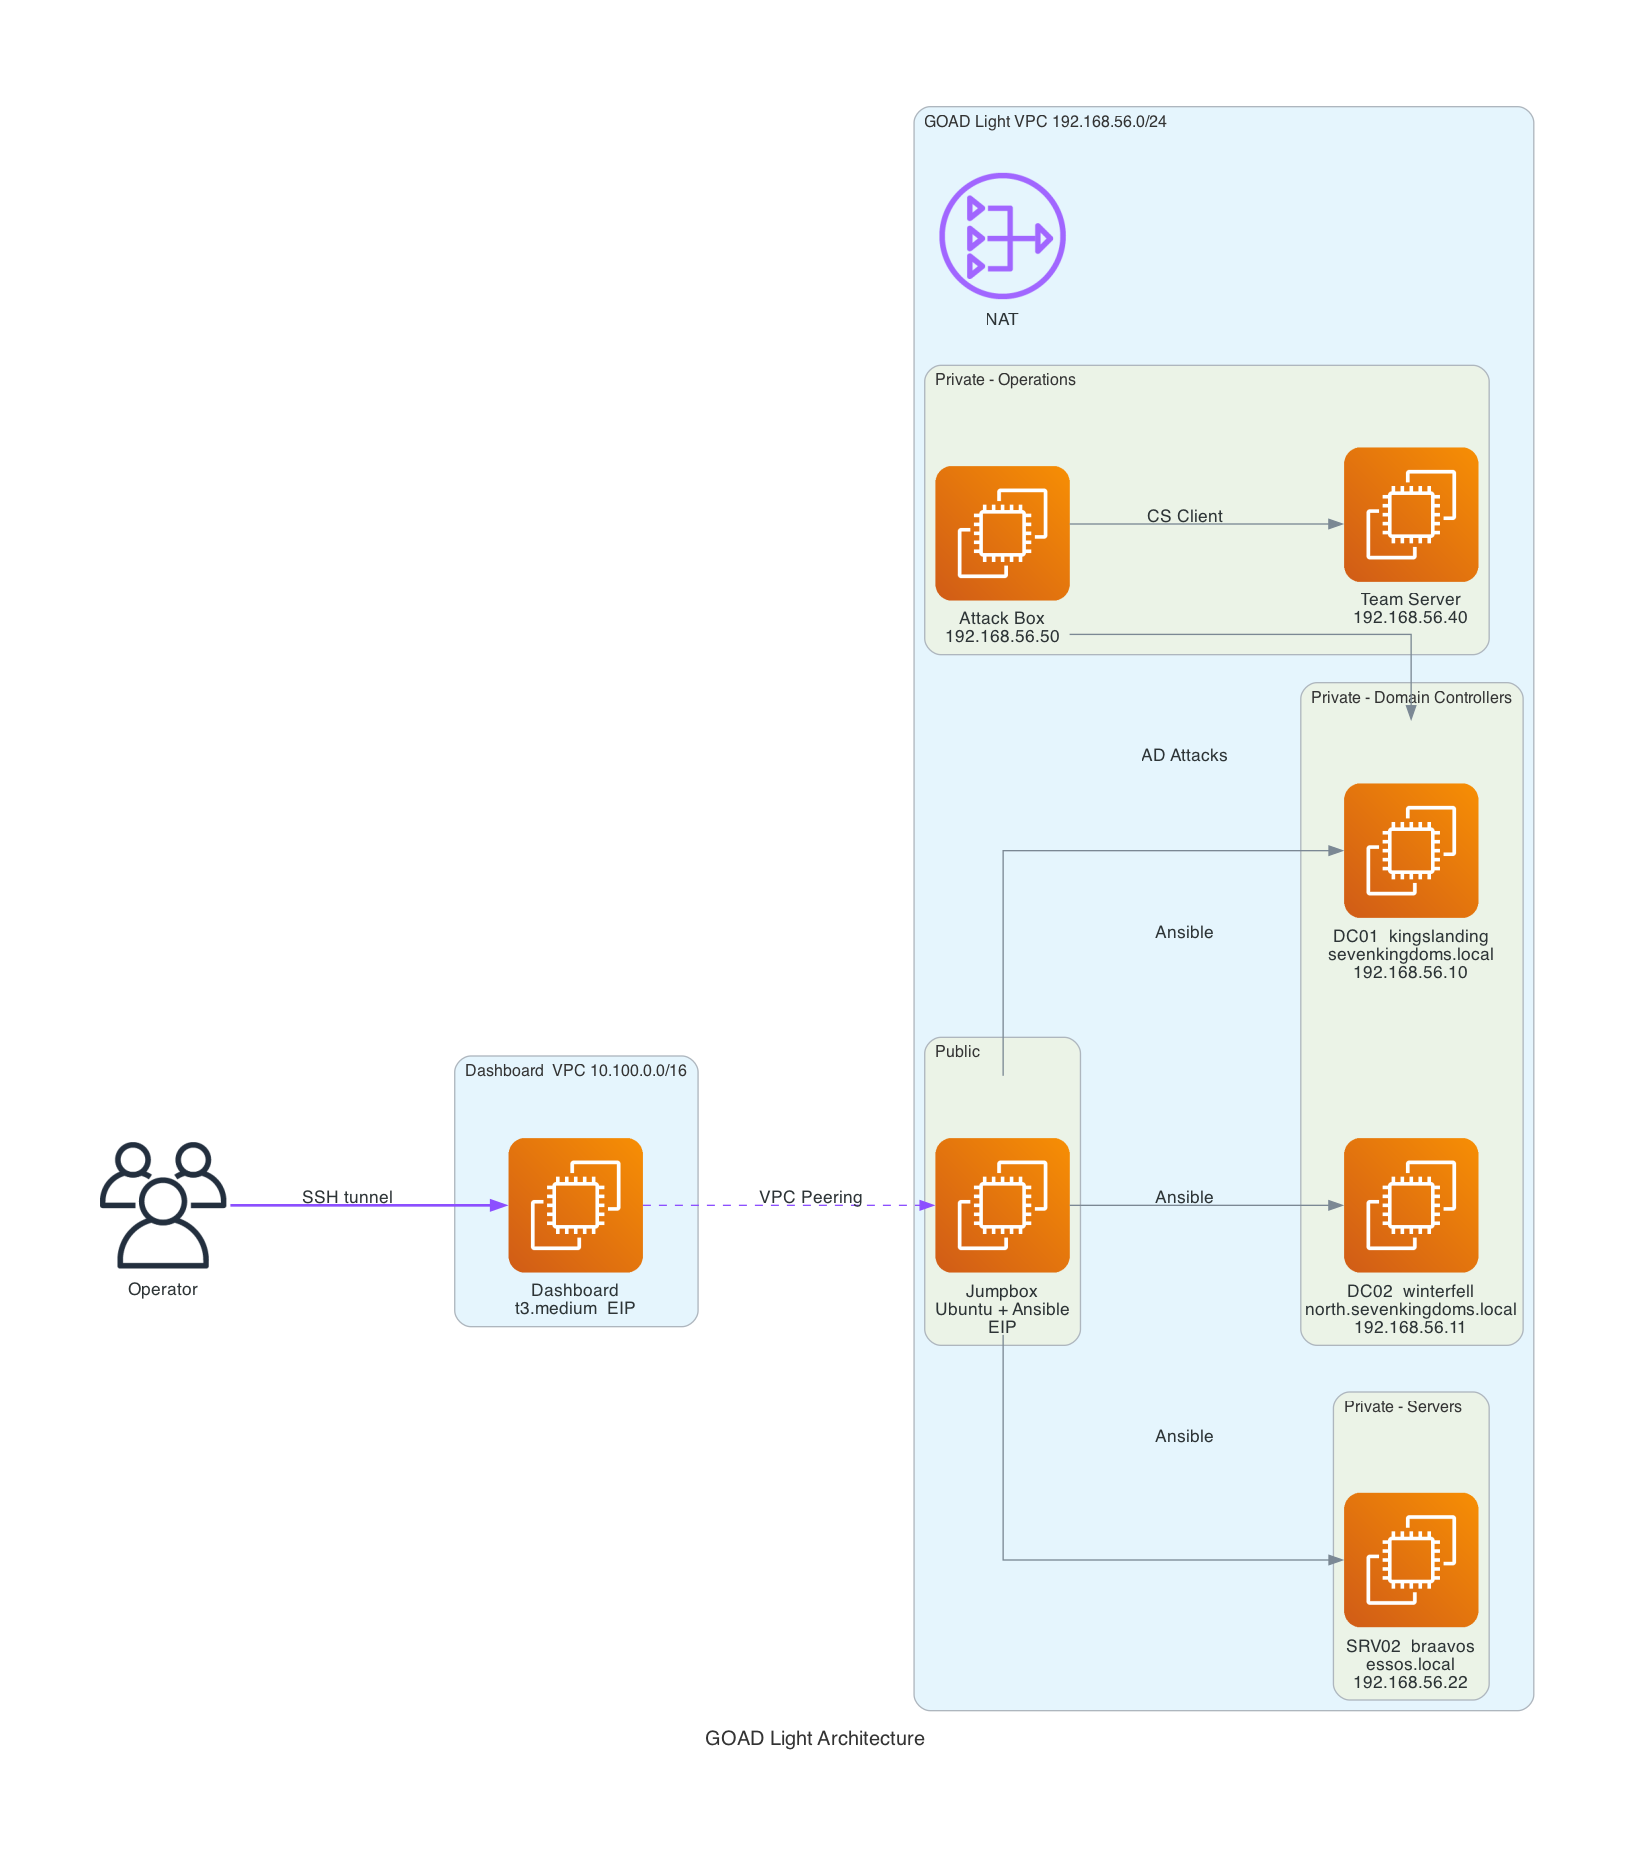
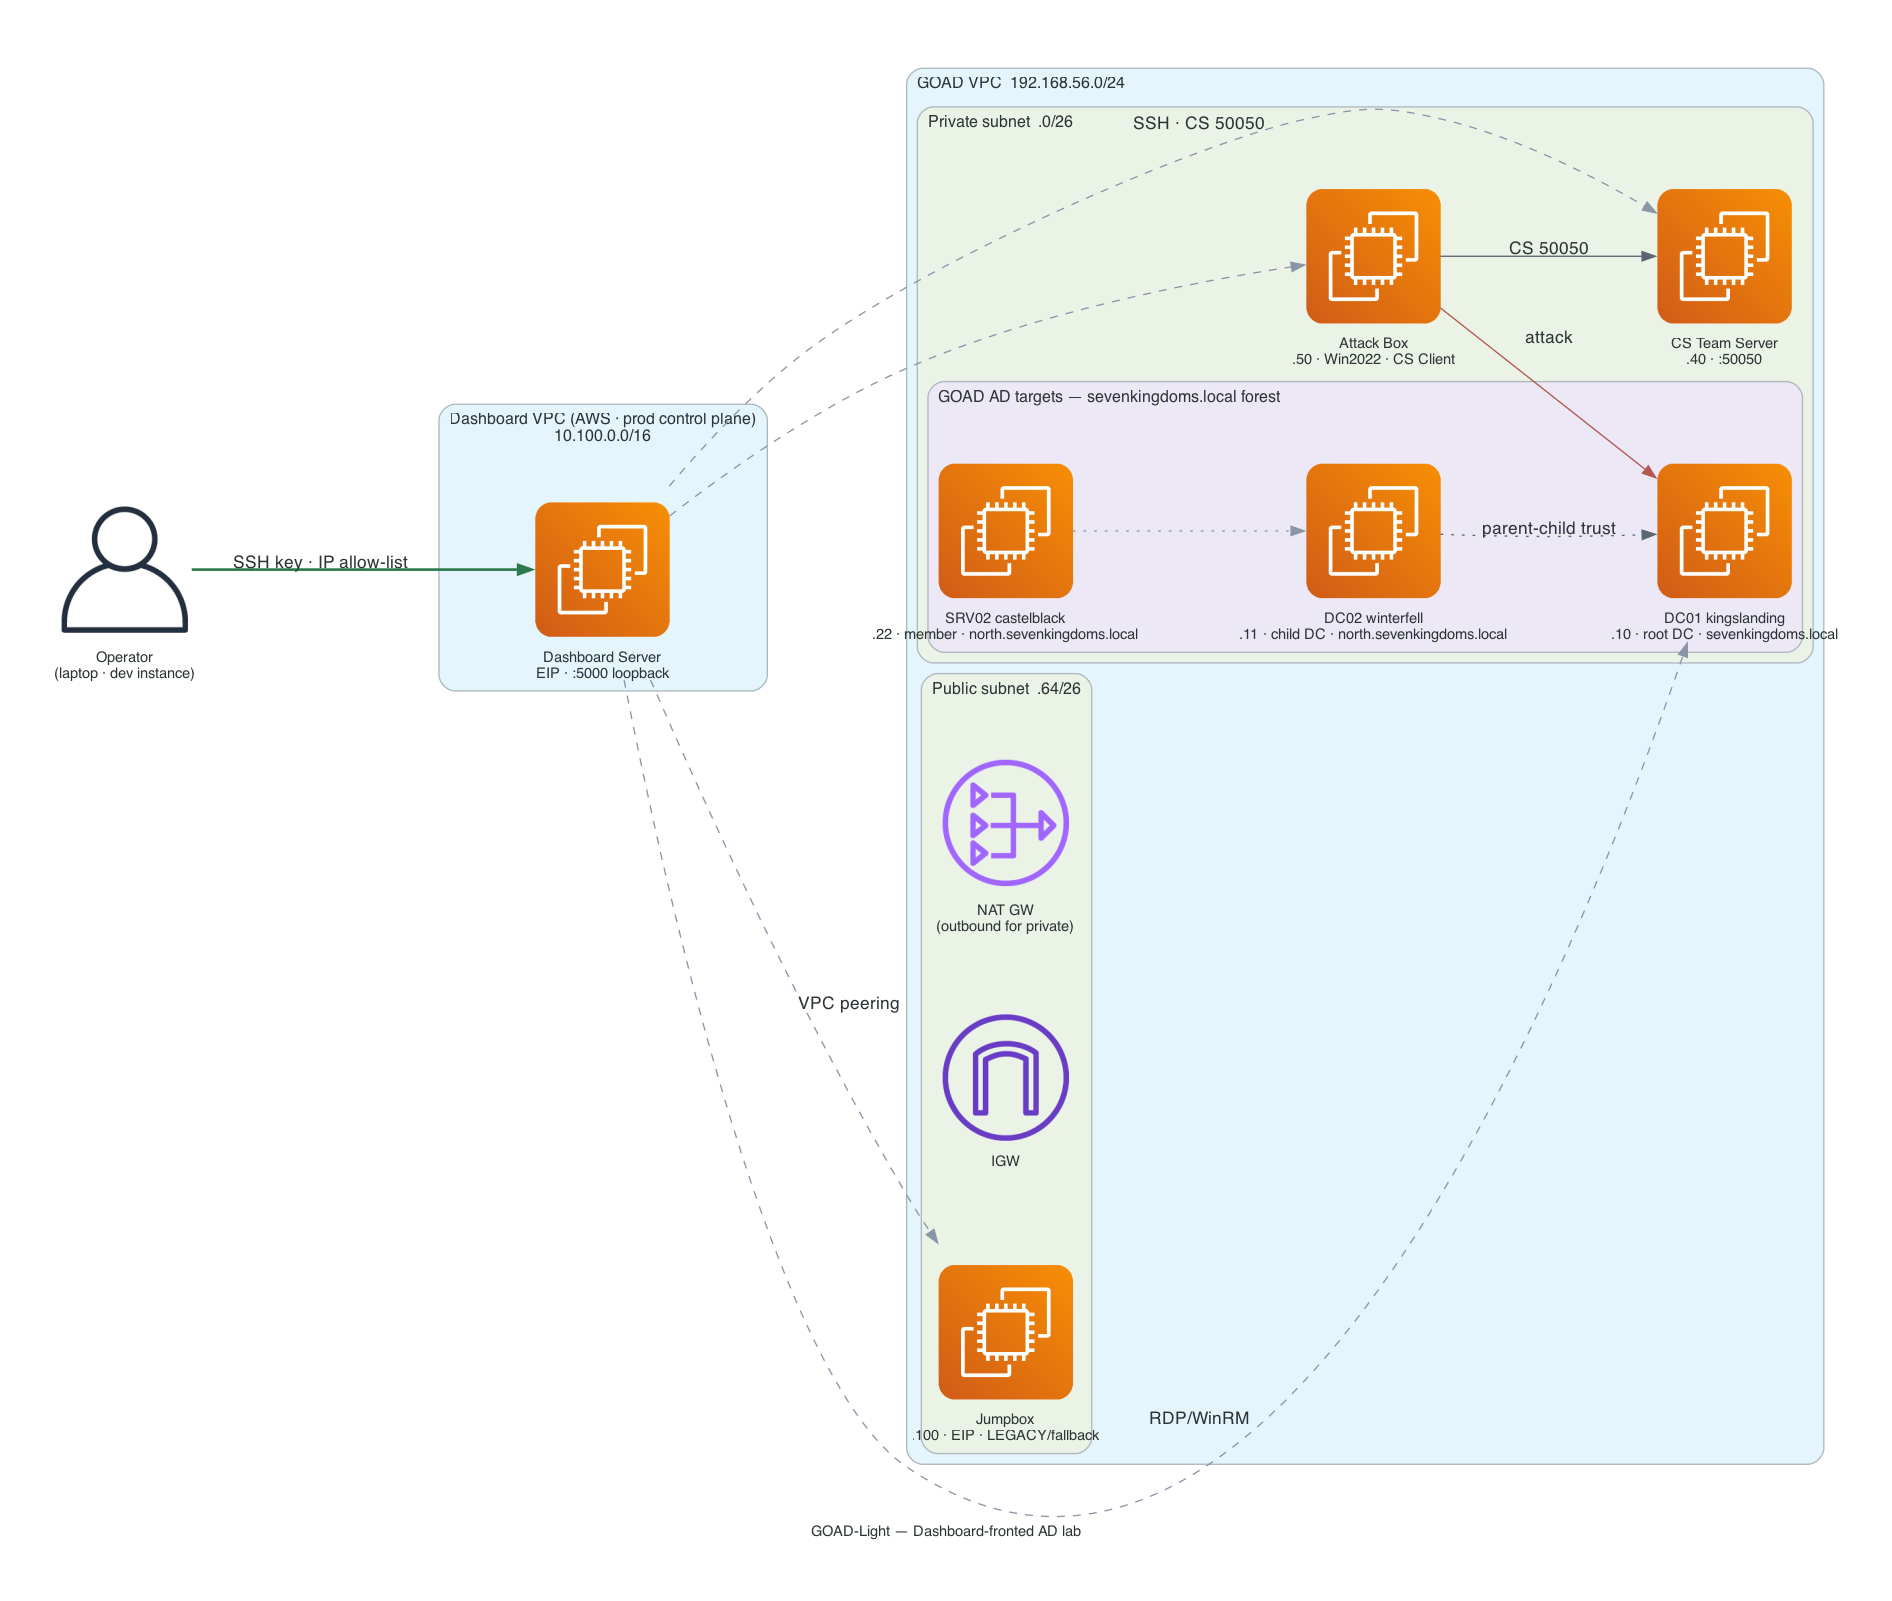
feat(diagrams): regen GOAD-family for AWS-hosted dashboard hub
goad-mini/light/sccm/full/nha redrawn with the AWS-hosted Dashboard
Server as the hub deployments branch from; GOAD jumpbox demoted to
legacy. Landscape, AWS icons, scripted via scripts/diagrams/.

diff --git a/scripts/diagrams/diag_goad_full.py b/scripts/diagrams/diag_goad_full.py
@@ -1,0 +1,48 @@
+"""goad-full — 3 DC + 2 member servers across two forests
+(sevenkingdoms.local + essos.local, with parent-child + forest trusts),
+fronted by the AWS-hosted Dashboard Server. Operator -> Dashboard hub ->
+peered GOAD VPC. The GOAD jumpbox is legacy/fallback; the dashboard is the
+real jump."""
+from diagrams import Cluster, Edge
+from diagrams.aws.compute import EC2
+from diagrams.aws.network import InternetGateway, NATGateway
+
+from _common import rt_diagram, operator, dashboard_hub, OPERATOR_EDGE, PEERING_EDGE
+
+with rt_diagram("GOAD-Full — Dashboard-fronted AD lab", "goad-full-architecture"):
+    op = operator()
+
+    with dashboard_hub() as dash:
+        op >> OPERATOR_EDGE >> dash
+
+    with Cluster("GOAD VPC  192.168.56.0/24"):
+        with Cluster("Public subnet  .64/26"):
+            igw = InternetGateway("IGW")
+            nat = NATGateway("NAT GW\n(outbound for private)")
+            jump = EC2("Jumpbox\n.100 · EIP · LEGACY/fallback")
+
+        with Cluster("Private subnet  .0/26"):
+            ts = EC2("CS Team Server\n.40 · :50050")
+            ab = EC2("Attack Box\n.50 · Win2022 · CS Client")
+            with Cluster("GOAD AD targets — sevenkingdoms.local + essos.local"):
+                dc01 = EC2("DC01 kingslanding\n.10 · root DC · sevenkingdoms.local")
+                dc02 = EC2("DC02 winterfell\n.11 · child DC · north.sevenkingdoms.local")
+                dc03 = EC2("DC03 meereen\n.12 · forest DC · essos.local")
+                srv02 = EC2("SRV02 castelblack\n.22 · member · north.sevenkingdoms.local")
+                srv03 = EC2("SRV03 braavos\n.23 · member · essos.local")
+
+        # Dashboard server is the jump into every GOAD instance (VPC peering).
+        dash >> PEERING_EDGE >> jump
+        dash >> Edge(label="SSH · CS 50050", color="#8a96a8", style="dashed") >> ts
+        dash >> Edge(color="#8a96a8", style="dashed") >> ab
+        dash >> Edge(label="RDP/WinRM", color="#8a96a8", style="dashed") >> dc01
+
+        # Trusts: parent-child within sevenkingdoms, forest trust to essos.
+        dc02 >> Edge(label="parent-child trust", color="#5a6472", style="dotted") >> dc01
+        dc03 >> Edge(label="forest trust", color="#5a6472", style="dotted") >> dc01
+        srv02 >> Edge(color="#8a96a8", style="dotted") >> dc02
+        srv03 >> Edge(color="#8a96a8", style="dotted") >> dc03
+
+        # CS client-to-server + attack path within the lab.
+        ab >> Edge(label="CS 50050", color="#5a6472") >> ts
+        ab >> Edge(label="attack", color="#b4564f") >> dc01

diff --git a/scripts/diagrams/diag_goad_nha.py b/scripts/diagrams/diag_goad_nha.py
@@ -1,0 +1,47 @@
+"""goad-nha — Network Hacking Academy lab: 2 DC + 3 member servers across
+ninja.hack + academy.ninja.lan (parent-child trust), fronted by the
+AWS-hosted Dashboard Server. Operator -> Dashboard hub -> peered GOAD VPC.
+The GOAD jumpbox is legacy/fallback; the dashboard is the real jump."""
+from diagrams import Cluster, Edge
+from diagrams.aws.compute import EC2
+from diagrams.aws.network import InternetGateway, NATGateway
+
+from _common import rt_diagram, operator, dashboard_hub, OPERATOR_EDGE, PEERING_EDGE
+
+with rt_diagram("GOAD-NHA — Dashboard-fronted AD lab", "goad-nha-architecture"):
+    op = operator()
+
+    with dashboard_hub() as dash:
+        op >> OPERATOR_EDGE >> dash
+
+    with Cluster("GOAD VPC  192.168.56.0/24"):
+        with Cluster("Public subnet  .64/26"):
+            igw = InternetGateway("IGW")
+            nat = NATGateway("NAT GW\n(outbound for private)")
+            jump = EC2("Jumpbox\n.100 · EIP · LEGACY/fallback")
+
+        with Cluster("Private subnet  .0/26"):
+            ts = EC2("CS Team Server\n.40 · :50050")
+            ab = EC2("Attack Box\n.50 · Win2022 · CS Client")
+            with Cluster("GOAD AD targets — ninja.hack + academy.ninja.lan"):
+                dc01 = EC2("DC01\n.10 · root DC · ninja.hack")
+                dc02 = EC2("DC02\n.20 · child DC · academy.ninja.lan")
+                srv01 = EC2("SRV01\n.21 · MSSQL · academy.ninja.lan")
+                srv02 = EC2("SRV02\n.22 · web · academy.ninja.lan")
+                srv03 = EC2("SRV03\n.23 · file server · academy.ninja.lan")
+
+        # Dashboard server is the jump into every GOAD instance (VPC peering).
+        dash >> PEERING_EDGE >> jump
+        dash >> Edge(label="SSH · CS 50050", color="#8a96a8", style="dashed") >> ts
+        dash >> Edge(color="#8a96a8", style="dashed") >> ab
+        dash >> Edge(label="RDP/WinRM", color="#8a96a8", style="dashed") >> dc01
+
+        # Parent-child trust + member-server domain membership.
+        dc02 >> Edge(label="parent-child trust", color="#5a6472", style="dotted") >> dc01
+        srv01 >> Edge(color="#8a96a8", style="dotted") >> dc02
+        srv02 >> Edge(color="#8a96a8", style="dotted") >> dc02
+        srv03 >> Edge(color="#8a96a8", style="dotted") >> dc02
+
+        # CS client-to-server + attack path within the lab.
+        ab >> Edge(label="CS 50050", color="#5a6472") >> ts
+        ab >> Edge(label="attack", color="#b4564f") >> dc01

diff --git a/scripts/diagrams/diag_goad_light.py b/scripts/diagrams/diag_goad_light.py
@@ -1,0 +1,43 @@
+"""goad-light — 2 DC + 1 member server, parent-child trust
+(sevenkingdoms.local + north.sevenkingdoms.local), fronted by the
+AWS-hosted Dashboard Server. Operator -> Dashboard hub -> peered GOAD VPC.
+The GOAD jumpbox is legacy/fallback; the dashboard is the real jump."""
+from diagrams import Cluster, Edge
+from diagrams.aws.compute import EC2
+from diagrams.aws.network import InternetGateway, NATGateway
+
+from _common import rt_diagram, operator, dashboard_hub, OPERATOR_EDGE, PEERING_EDGE
+
+with rt_diagram("GOAD-Light — Dashboard-fronted AD lab", "goad-light-architecture"):
+    op = operator()
+
+    with dashboard_hub() as dash:
+        op >> OPERATOR_EDGE >> dash
+
+    with Cluster("GOAD VPC  192.168.56.0/24"):
+        with Cluster("Public subnet  .64/26"):
+            igw = InternetGateway("IGW")
+            nat = NATGateway("NAT GW\n(outbound for private)")
+            jump = EC2("Jumpbox\n.100 · EIP · LEGACY/fallback")
+
+        with Cluster("Private subnet  .0/26"):
+            ts = EC2("CS Team Server\n.40 · :50050")
+            ab = EC2("Attack Box\n.50 · Win2022 · CS Client")
+            with Cluster("GOAD AD targets — sevenkingdoms.local forest"):
+                dc01 = EC2("DC01 kingslanding\n.10 · root DC · sevenkingdoms.local")
+                dc02 = EC2("DC02 winterfell\n.11 · child DC · north.sevenkingdoms.local")
+                srv02 = EC2("SRV02 castelblack\n.22 · member · north.sevenkingdoms.local")
+
+        # Dashboard server is the jump into every GOAD instance (VPC peering).
+        dash >> PEERING_EDGE >> jump
+        dash >> Edge(label="SSH · CS 50050", color="#8a96a8", style="dashed") >> ts
+        dash >> Edge(color="#8a96a8", style="dashed") >> ab
+        dash >> Edge(label="RDP/WinRM", color="#8a96a8", style="dashed") >> dc01
+
+        # Parent-child trust between the two domains.
+        dc02 >> Edge(label="parent-child trust", color="#5a6472", style="dotted") >> dc01
+        srv02 >> Edge(color="#8a96a8", style="dotted") >> dc02
+
+        # CS client-to-server + attack path within the lab.
+        ab >> Edge(label="CS 50050", color="#5a6472") >> ts
+        ab >> Edge(label="attack", color="#b4564f") >> dc01

diff --git a/scripts/diagrams/diag_goad_sccm.py b/scripts/diagrams/diag_goad_sccm.py
@@ -1,0 +1,45 @@
+"""goad-sccm — SCCM attack lab on sccm.lab (DC + SCCM + SQL + client),
+fronted by the AWS-hosted Dashboard Server. Operator -> Dashboard hub ->
+peered GOAD VPC. The GOAD jumpbox is legacy/fallback; the dashboard is the
+real jump."""
+from diagrams import Cluster, Edge
+from diagrams.aws.compute import EC2
+from diagrams.aws.network import InternetGateway, NATGateway
+
+from _common import rt_diagram, operator, dashboard_hub, OPERATOR_EDGE, PEERING_EDGE
+
+with rt_diagram("GOAD-SCCM — Dashboard-fronted AD lab", "goad-sccm-architecture"):
+    op = operator()
+
+    with dashboard_hub() as dash:
+        op >> OPERATOR_EDGE >> dash
+
+    with Cluster("GOAD VPC  192.168.56.0/24"):
+        with Cluster("Public subnet  .64/26"):
+            igw = InternetGateway("IGW")
+            nat = NATGateway("NAT GW\n(outbound for private)")
+            jump = EC2("Jumpbox\n.100 · EIP · LEGACY/fallback")
+
+        with Cluster("Private subnet  .0/26"):
+            ts = EC2("CS Team Server\n.40 · :50050")
+            ab = EC2("Attack Box\n.50 · Win2022 · CS Client")
+            with Cluster("GOAD AD targets — sccm.lab"):
+                dc01 = EC2("DC01\n.10 · DC · sccm.lab")
+                srv01 = EC2("SRV01\n.11 · SCCM site server")
+                srv02 = EC2("SRV02\n.12 · MSSQL (site DB)")
+                ws01 = EC2("WS01\n.13 · domain client")
+
+        # Dashboard server is the jump into every GOAD instance (VPC peering).
+        dash >> PEERING_EDGE >> jump
+        dash >> Edge(label="SSH · CS 50050", color="#8a96a8", style="dashed") >> ts
+        dash >> Edge(color="#8a96a8", style="dashed") >> ab
+        dash >> Edge(label="RDP/WinRM", color="#8a96a8", style="dashed") >> dc01
+
+        # SCCM site relationships.
+        srv01 >> Edge(label="site DB", color="#8a96a8", style="dotted") >> srv02
+        srv01 >> Edge(color="#8a96a8", style="dotted") >> dc01
+        ws01 >> Edge(label="MP/client", color="#8a96a8", style="dotted") >> srv01
+
+        # CS client-to-server + attack path within the lab.
+        ab >> Edge(label="CS 50050", color="#5a6472") >> ts
+        ab >> Edge(label="attack", color="#b4564f") >> srv01

diff --git a/scripts/diagrams/diag_goad_mini.py b/scripts/diagrams/diag_goad_mini.py
@@ -1,0 +1,36 @@
+"""goad-mini — single-DC AD lab (sevenkingdoms.local), fronted by the
+AWS-hosted Dashboard Server. Operator -> Dashboard hub -> peered GOAD VPC.
+The GOAD jumpbox is legacy/fallback; the dashboard is the real jump."""
+from diagrams import Cluster, Edge
+from diagrams.aws.compute import EC2
+from diagrams.aws.network import InternetGateway, NATGateway
+
+from _common import rt_diagram, operator, dashboard_hub, OPERATOR_EDGE, PEERING_EDGE
+
+with rt_diagram("GOAD-Mini — Dashboard-fronted AD lab", "goad-mini-architecture"):
+    op = operator()
+
+    with dashboard_hub() as dash:
+        op >> OPERATOR_EDGE >> dash
+
+    with Cluster("GOAD VPC  192.168.56.0/24"):
+        with Cluster("Public subnet  .64/26"):
+            igw = InternetGateway("IGW")
+            nat = NATGateway("NAT GW\n(outbound for private)")
+            jump = EC2("Jumpbox\n.100 · EIP · LEGACY/fallback")
+
+        with Cluster("Private subnet  .0/26"):
+            ts = EC2("CS Team Server\n.40 · :50050")
+            ab = EC2("Attack Box\n.50 · Win2022 · CS Client")
+            with Cluster("GOAD AD targets — sevenkingdoms.local"):
+                dc01 = EC2("DC01 kingslanding\n.10 · DC · sevenkingdoms.local")
+
+        # Dashboard server is the jump into every GOAD instance (VPC peering).
+        dash >> PEERING_EDGE >> jump
+        dash >> Edge(label="SSH · CS 50050", color="#8a96a8", style="dashed") >> ts
+        dash >> Edge(color="#8a96a8", style="dashed") >> ab
+        dash >> Edge(label="RDP/WinRM", color="#8a96a8", style="dashed") >> dc01
+
+        # CS client-to-server + attack path within the lab.
+        ab >> Edge(label="CS 50050", color="#5a6472") >> ts
+        ab >> Edge(label="attack", color="#b4564f") >> dc01
